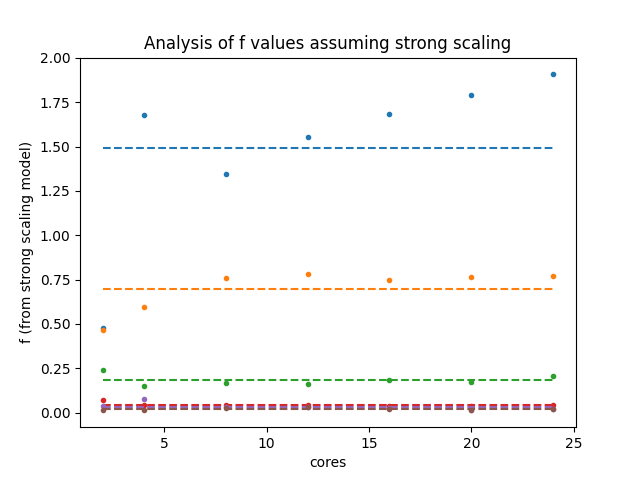
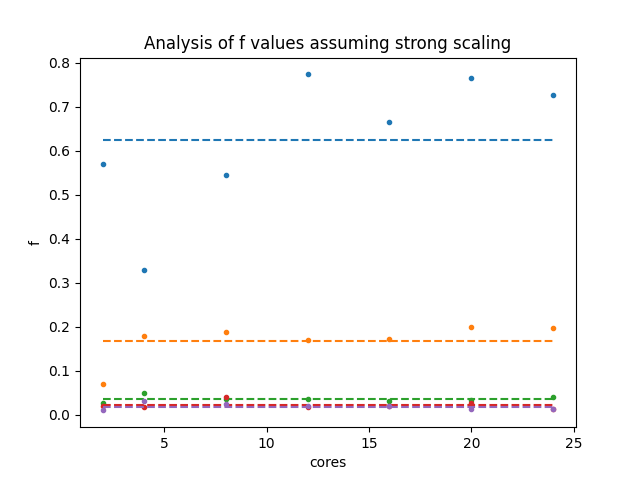
Update reeport to use newest hamilton run

diff --git a/DataAnalysis/calcF.py b/DataAnalysis/calcF.py
@@ -1,7 +1,7 @@
 import matplotlib.pyplot as plt
 import numpy as np
 
-with open("./scaling.data", "r") as f:
+with open("./scaling4.data", "r") as f:
     raw = f.readlines()
     raw = ''.join(raw)
     raw_runs = raw.split("----------\n")
@@ -43,7 +43,7 @@ with open("./scaling.data", "r") as f:
         all_f.append(fs)
 
     plt.xlabel("cores")
-    plt.ylabel("f (from strong scaling model)")
+    plt.ylabel("f")
     plt.title("Analysis of f values assuming strong scaling")
     plt.savefig("f.png")
     
